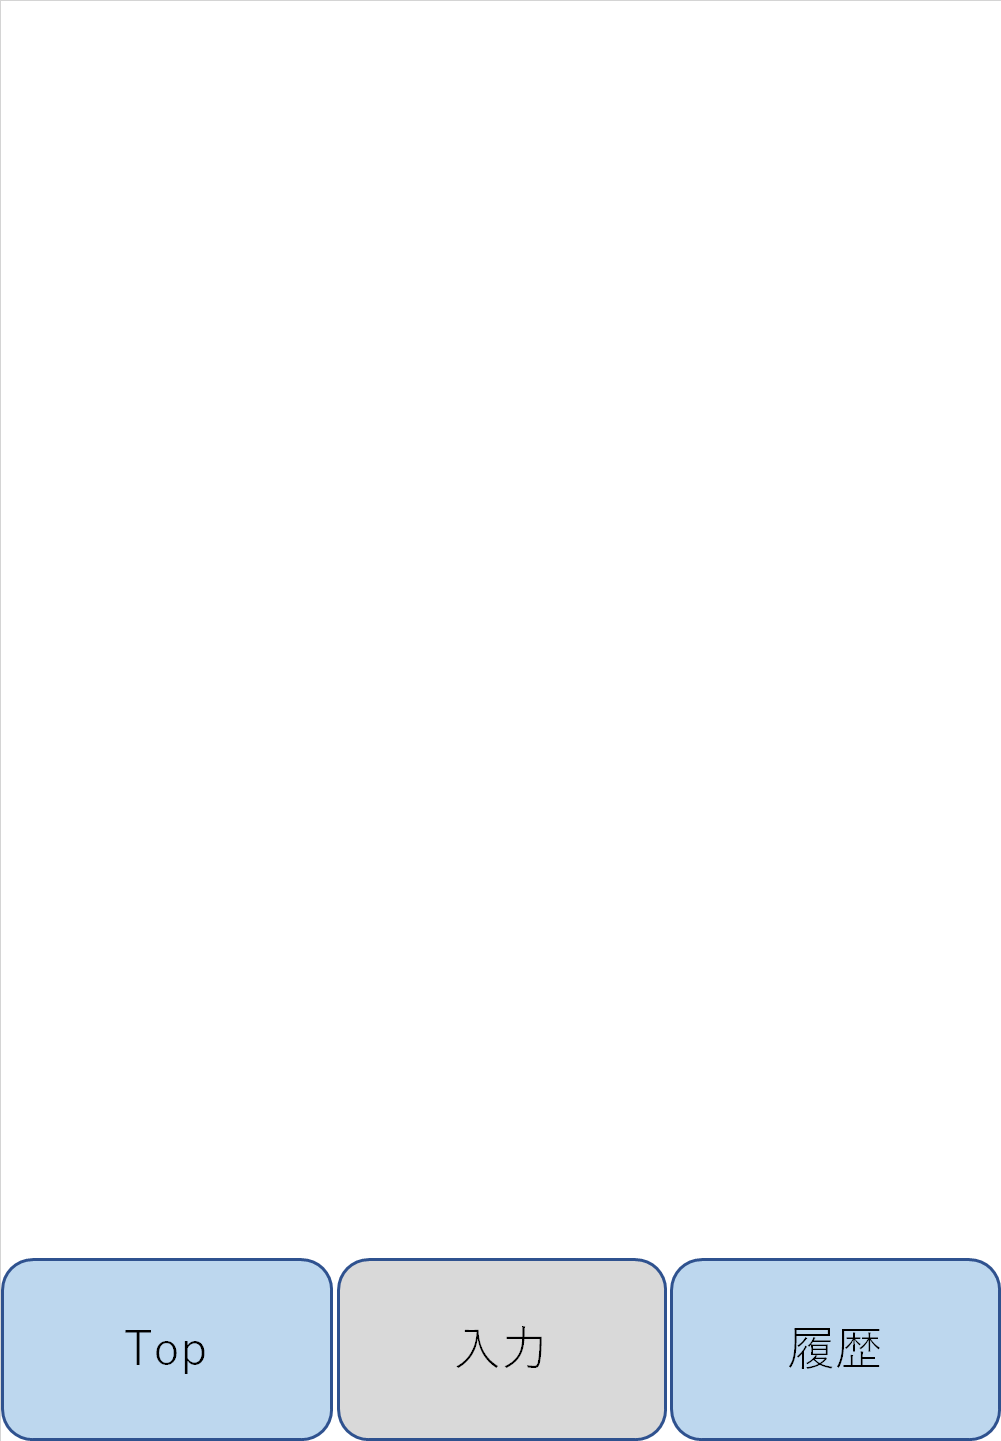
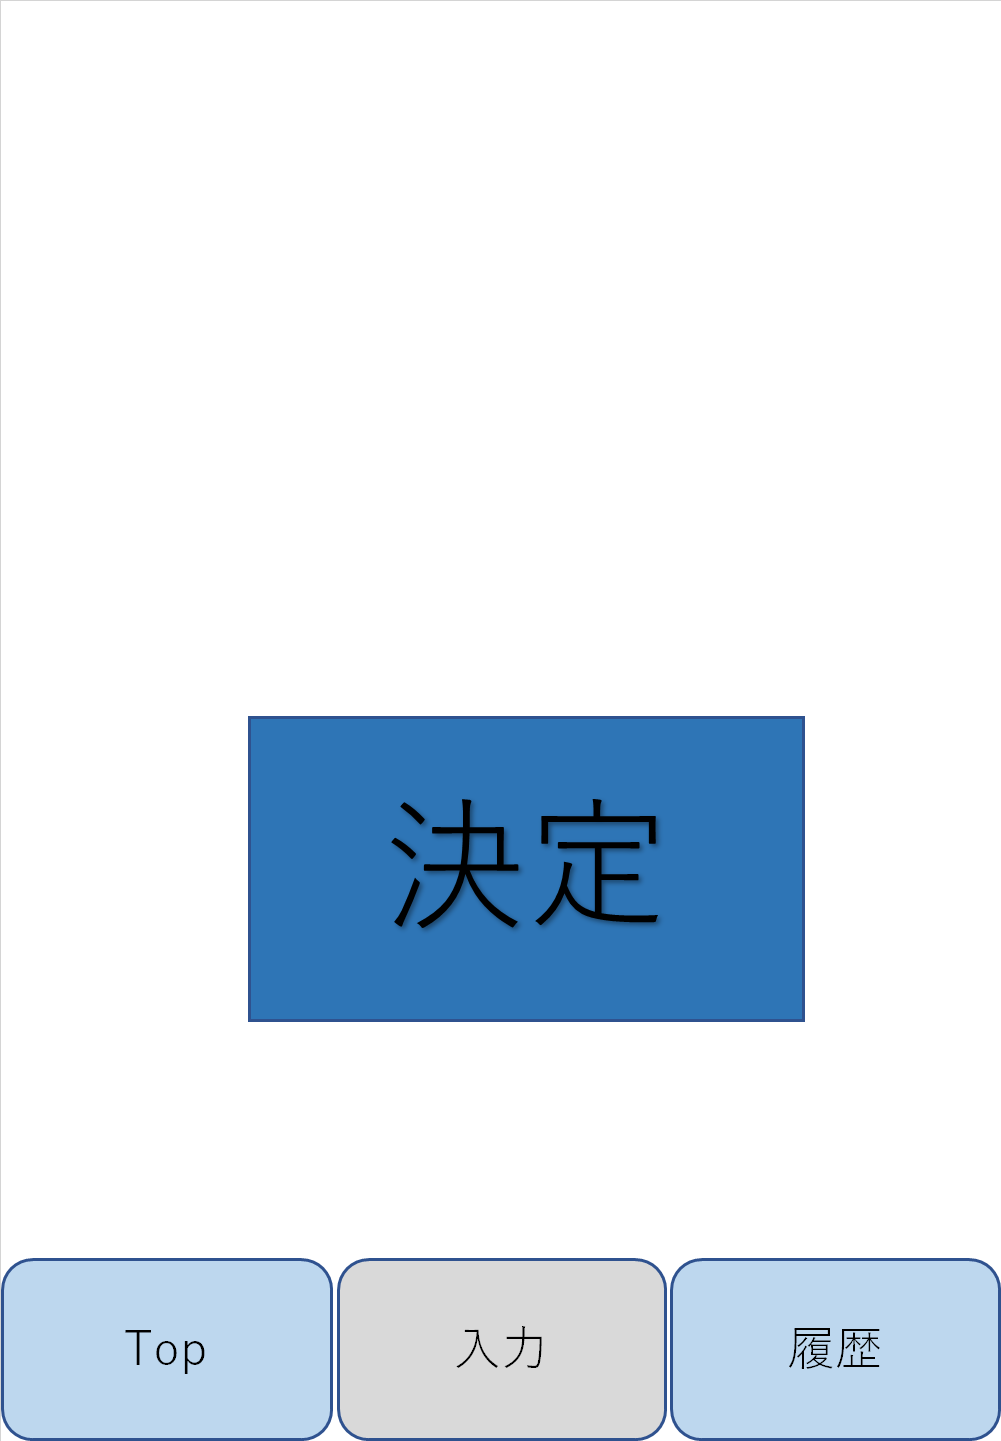
アルコール濃度を計算して表示

Changed region(s): [[0.2478, 0.4997, 0.8052, 0.7183]]

diff --git a/src/Top.cpp b/src/Top.cpp
@@ -1,23 +1,47 @@
 #include "Top.h"
 
 void Top::setup(){
+    alcohol.loadFile("alcohol.xml");
     top_image.load("image/top.png");
+
+    alcholAmount = alcohol.getValue("data:alcholAmount", 0.0);
 }
 
 
 //--------------------------------------------------------------
 void Top::update(){
-
+    bloodAlcoholConcentration = alcholAmount / 50 * 0.7;
 }
 
 //--------------------------------------------------------------
 void Top::draw(){
     top_image.draw(0,0, 500*2,720*2);
 
+    ofSetColor(0, 0, 0); //色を黒に変更
+    getSharedData().font.drawString(std::to_string(bloodAlcoholConcentration)+"mg/ml",350,720);
+    ofSetColor(255, 255, 255); //色の初期化
 }
 
 void Top::mousePressed(int x, int y, int button){
+    if(y>=60*21){
+        if(x>=0 && x<=330){
+            alcohol.loadFile("alcohol.xml");
+            alcholAmount = alcohol.getValue("data:alcholAmount", 0.0);
+        }else if(x>=330 && x<=660){
+            changeState("Intake");
+        }else if(x>=660 && x<=1000){
+            changeState("GetDrunkAvg");
+        }
+    }
+}
 
+void Top::mouseReleased(int x, int y, int button){
+    if(y>=60*21){
+        if(x>=0 && x<=330){
+            alcohol.loadFile("alcohol.xml");
+            alcholAmount = alcohol.getValue("data:alcholAmount", 0.0);
+        }
+    }
 }
 
 string Top::getName(){

diff --git a/src/Intake.cpp b/src/Intake.cpp
@@ -1,6 +1,8 @@
 #include "Intake.h"
 
 void Intake::setup(){
+    intake_image.load("image/Intake.png");
+
     ofSetVerticalSync(true);
 
     gui.setup(); // most of the time you don't need a name
@@ -8,7 +10,7 @@ void Intake::setup(){
     gui.setDefaultWidth(700);
     gui.setDefaultHeight(40);
 
-    gui.add(alcoholAmount.setup("ｍｌ", 350, 0, 1000));
+    gui.add(alcoholAmount_slider.setup("ｍｌ", 350, 0, 1000));
     gui.add(percent.setup("%",5,0,100));
 }
 
@@ -20,8 +22,28 @@ void Intake::update(){
 
 //--------------------------------------------------------------
 void Intake::draw(){
+    intake_image.draw(0,0, 500*2,720*2);
     gui.draw();
 }
+
+void Intake::mousePressed(int x, int y, int button){
+    if(y>=60*21){
+        if(x>=0 && x<=330){
+            changeState("Top");
+        }else if(x>=660 && x<=1000){
+            changeState("GetDrunkAvg");
+        }
+    }
+
+    if(x>=250 && x<= 800 && y>=720 && y <=1020){
+        alcohol.loadFile("alcohol.xml");
+        alcholAmount = alcohol.getValue("data:alcholAmount", 0.0);
+        alcholAmount += alcoholAmount_slider*(static_cast<double>(percent)/100) * 0.792;
+        alcohol.setValue("data:alcholAmount",alcholAmount);
+        alcohol.saveFile("alcohol.xml");
+    }
+}
+
 
 string Intake::getName(){
     return "Intake";

diff --git a/src/ofApp.cpp b/src/ofApp.cpp
@@ -19,8 +19,8 @@ void ofApp::setup(){
     jsettings.addRange(ofUnicode::Katakana);//カタカナ
     //jsettings.addRange(ofUnicode::MiscSymbolsAndPictographs);//絵文字など
     //jsettings.addRange(ofUnicode::Emoticons);//エモーティコン
-    font.load(jsettings); // 設定をロード
-    font.setLetterSpacing(1.2);//文字間 デフォルトは1.0 文字間をより開ける場合は1.0を超える値を指定する
+    stateMachine.getSharedData().font.load(jsettings); // 設定をロード
+    stateMachine.getSharedData().font.setLetterSpacing(1.2);//文字間 デフォルトは1.0 文字間をより開ける場合は1.0を超える値を指定する
 
     stateMachine.addState<Top>();
     stateMachine.addState<Intake>();

diff --git a/src/Intake.h b/src/Intake.h
@@ -4,6 +4,7 @@
 #include "ofxGui.h"
 #include "ofxState.h"
 #include "SharedData.h"
+#include "ofxXmlSettings.h"
 
 class Intake : public itg::ofxState<SharedData>{ //ofxStateを継承{
 
@@ -12,10 +13,14 @@ public:
     void update();
     void draw();
     string getName(); //状態の名前を返す関数
+    void mousePressed(int x, int y, int button);
 
+private:
+    ofImage intake_image; //全体画像
     ofxPanel gui;
-    ofxIntSlider alcoholAmount;
+    ofxIntSlider alcoholAmount_slider;
     ofxIntSlider percent;
     ofTrueTypeFont font; //フォント用
-
+    ofxXmlSettings alcohol; //XMLの設定用
+    double alcholAmount;
 };

diff --git a/src/GetDrunkAvg.cpp b/src/GetDrunkAvg.cpp
@@ -1,7 +1,7 @@
 #include "GetDrunkAvg.h"
 
 void GetDrunkAvg::setup(){
-
+    getDrunkAvg_image.load("image/GetDrunkAvg.png");
 }
 
 
@@ -12,7 +12,17 @@ void GetDrunkAvg::update(){
 
 //--------------------------------------------------------------
 void GetDrunkAvg::draw(){
+    getDrunkAvg_image.draw(0,0, 500*2,720*2);
+}
 
+void GetDrunkAvg::mousePressed(int x, int y, int button){
+    if(y>=60*21){
+        if(x>=0 && x<=330){
+            changeState("Top");
+        }else if(x>=330 && x<=660){
+            changeState("Intake");
+        }
+    }
 }
 
 string GetDrunkAvg::getName(){

diff --git a/src/Top.h b/src/Top.h
@@ -4,6 +4,7 @@
 #include "ofxGui.h"
 #include "ofxState.h"
 #include "SharedData.h"
+#include "ofxXmlSettings.h"
 
 class Top : public itg::ofxState<SharedData>{ //ofxStateを継承{
 
@@ -12,9 +13,13 @@ public:
     void update();
     void draw();
     void mousePressed(int x, int y, int button);
+    void mouseReleased(int x, int y, int button);
 
     string getName(); //状態の名前を返す関数
 
 private:
     ofImage top_image; //全体画像
+    ofxXmlSettings alcohol; //XMLの設定用
+    double bloodAlcoholConcentration;
+    double alcholAmount;
 };

diff --git a/src/GetDrunkAvg.h b/src/GetDrunkAvg.h
@@ -11,7 +11,10 @@ public:
     void setup();
     void update();
     void draw();
+    void mousePressed(int x, int y, int button);
 
     string getName(); //状態の名前を返す関数
 
+private:
+    ofImage getDrunkAvg_image; //全体画像
 };

diff --git a/src/ofApp.h b/src/ofApp.h
@@ -24,6 +24,5 @@ public:
     void gotMessage(ofMessage msg);
 
     itg::ofxStateMachine<SharedData> stateMachine; //アドオンをインスタンス化
-    ofTrueTypeFont font; //フォント用
 
 };

diff --git a/src/SharedData.h b/src/SharedData.h
@@ -3,5 +3,6 @@
 class SharedData
 {
 public:
+   ofTrueTypeFont font; //フォント用
 
 };
